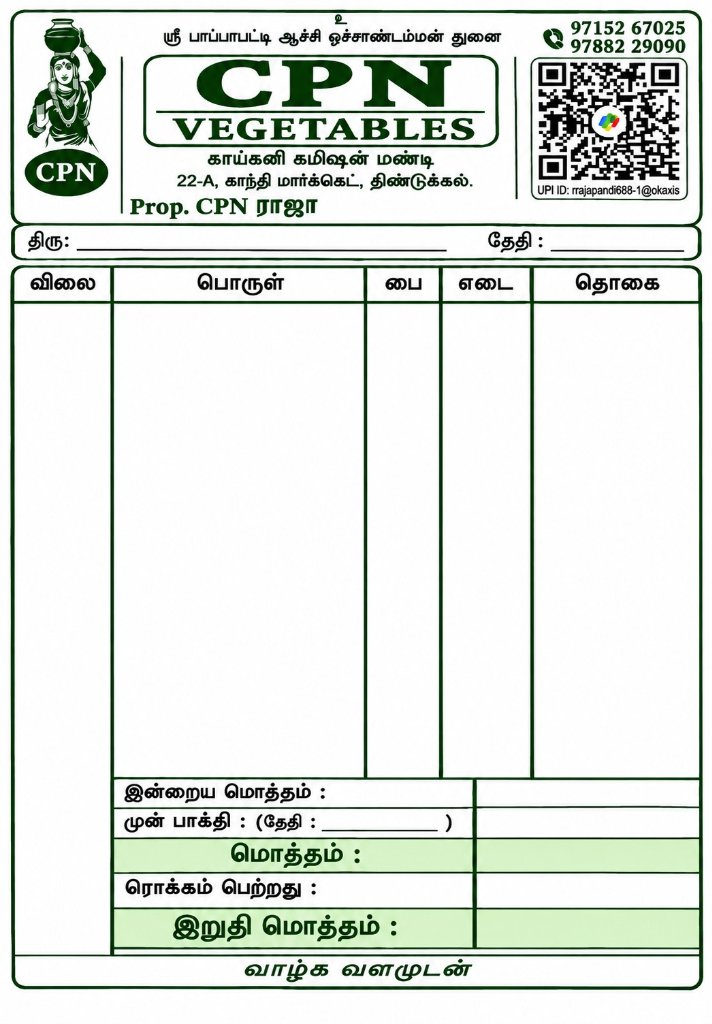
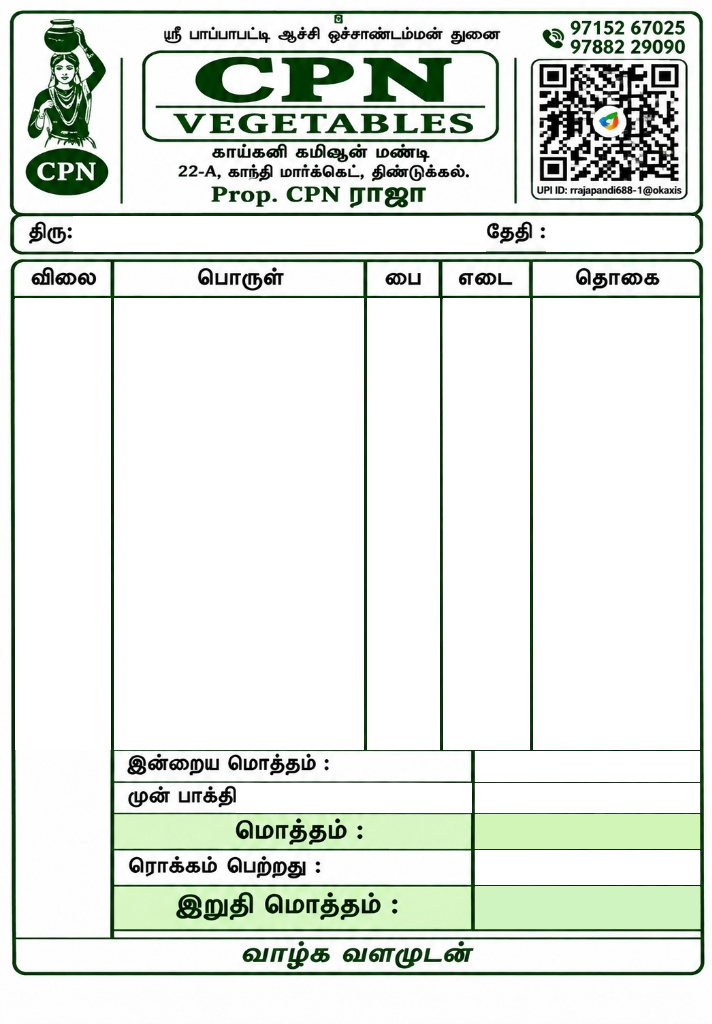
fix(print): align buyer name and update bill template to authoritative reference

Changed region(s): [[0.0, 0.0, 1.0, 0.9688]]

diff --git a/client/src/components/BillPrintTemplate.jsx b/client/src/components/BillPrintTemplate.jsx
@@ -31,21 +31,21 @@ const formatNumber = (num, decimals = 2) => {
   return parsed % 1 === 0 ? parsed.toString() : parsed.toFixed(decimals);
 };
 
-// Helper to get adaptive row layout parameters inside the 44.43% vegetable table area
+// Helper to get adaptive row layout parameters inside the vegetable table area
 const getAdaptiveOverlayLayout = (itemCount) => {
   if (itemCount <= 5) {
     return {
-      rowHeightPercent: 4.4,
-      fontSizeParticulars: 'text-[11px] leading-tight font-bold',
-      fontSizeData: 'text-[11px] font-bold',
+      rowHeightPercent: 4.5,
+      fontSizeParticulars: 'text-[11.5px] leading-tight font-bold',
+      fontSizeData: 'text-[11.5px] font-bold',
       lineHeight: 'leading-normal',
     };
   } else {
     // 6 to 10 items
     return {
-      rowHeightPercent: 4.3,
-      fontSizeParticulars: 'text-[10px] leading-tight font-bold',
-      fontSizeData: 'text-[10px] font-bold',
+      rowHeightPercent: 3.9,
+      fontSizeParticulars: 'text-[10.5px] leading-tight font-bold',
+      fontSizeData: 'text-[10.5px] font-bold',
       lineHeight: 'leading-normal',
     };
   }
@@ -167,7 +167,7 @@ export const BillPrintTemplate = ({ bill, settings, masterVegetables = [] }) => 
   }
 
   // Table body start and end Y coordinates as percentages of 1024px canvas
-  const TABLE_TOP_PERCENT = 30.10; // Y = 308px (immediately below table header line)
+  const TABLE_TOP_PERCENT = 29.50; // Y = 302px (immediately below table header line)
 
   return (
     <div id="printable-bill" style={{ margin: 0, padding: 0 }}>
@@ -221,41 +221,39 @@ export const BillPrintTemplate = ({ bill, settings, masterVegetables = [] }) => 
                 height: '100%',
               }}
             >
-              {/* 1. CUSTOMER NAME (on திரு: underline - X=78..476, Y=250) */}
+              {/* 1. CUSTOMER NAME (திரு: - X=84..480, Y=216..251) */}
               <div
-                className="absolute flex items-end font-black text-black font-tamil text-[13px] leading-none truncate pl-1 pr-2"
+                className="absolute flex items-center font-black text-black font-tamil text-[14px] leading-none truncate pl-1 pr-2"
                 style={{
-                  left: '11.0%',
-                  top: '22.0%',
-                  width: '56.0%',
-                  height: '2.41%',
-                  paddingBottom: '0.5px',
+                  left: '11.8%',
+                  top: '21.09%',
+                  width: '55.0%',
+                  height: '3.42%',
                   boxSizing: 'border-box',
                 }}
                 title={bill.customerName || bill.customer?.name}
               >
                 <span className="truncate">{bill.customerName || bill.customer?.name || ''}</span>
                 {bill.customerPhone && (
-                  <span className="font-mono-num font-bold text-gray-800 text-[10px] ml-1.5 flex-shrink-0">
+                  <span className="font-mono-num font-bold text-gray-800 text-[10.5px] ml-1.5 flex-shrink-0">
                     ({bill.customerPhone})
                   </span>
                 )}
                 {page.pageNumber > 1 && (
-                  <span className="text-[9px] font-bold text-[#034D28] ml-2 flex-shrink-0">
+                  <span className="text-[9.5px] font-bold text-[#034D28] ml-2 flex-shrink-0">
                     (பக்கம் {page.pageNumber})
                   </span>
                 )}
               </div>
 
-              {/* 2. DATE (on தேதி : underline - X=551..684, Y=250) */}
+              {/* 2. DATE (தேதி : - X=552..690, Y=216..251) */}
               <div
-                className="absolute flex items-end justify-center font-mono-num font-bold text-gray-950 text-[10.5px] leading-none"
+                className="absolute flex items-center justify-center font-mono-num font-bold text-gray-950 text-[12px] leading-none"
                 style={{
-                  left: '77.2%',
-                  top: '22.0%',
-                  width: '18.8%',
-                  height: '2.41%',
-                  paddingBottom: '0.5px',
+                  left: '77.5%',
+                  top: '21.09%',
+                  width: '19.0%',
+                  height: '3.42%',
                   boxSizing: 'border-box',
                 }}
               >
@@ -300,7 +298,7 @@ export const BillPrintTemplate = ({ bill, settings, masterVegetables = [] }) => 
 
                     {/* Col 2: பொருள் (Particulars - Tamil Name) - 15.73% to 51.26% */}
                     <div
-                      className={`flex items-center text-left pl-2 pr-1 font-tamil font-bold text-gray-950 truncate ${layout.fontSizeParticulars}`}
+                      className={`flex items-center text-left pl-2.5 pr-1 font-tamil font-bold text-gray-950 truncate ${layout.fontSizeParticulars}`}
                       style={{
                         position: 'absolute',
                         left: '15.73%',
@@ -311,39 +309,39 @@ export const BillPrintTemplate = ({ bill, settings, masterVegetables = [] }) => 
                       <span className="truncate">{getVegetableDisplayName(item)}</span>
                     </div>
 
-                    {/* Col 3: பை (Bag) - 51.26% to 61.80% */}
+                    {/* Col 3: பை (Bag) - 51.26% to 61.94% */}
                     <div
                       className={`flex items-center justify-center font-mono-num font-bold text-gray-950 ${layout.fontSizeData}`}
                       style={{
                         position: 'absolute',
                         left: '51.26%',
-                        width: '10.54%',
+                        width: '10.68%',
                         height: '100%',
                       }}
                     >
                       {item.bag > 0 ? item.bag : ''}
                     </div>
 
-                    {/* Col 4: எடை (Weight) - 61.80% to 74.72% */}
+                    {/* Col 4: எடை (Weight) - 61.94% to 74.58% */}
                     <div
                       className={`flex items-center justify-end pr-2 font-mono-num font-semibold text-gray-950 ${layout.fontSizeData}`}
                       style={{
                         position: 'absolute',
-                        left: '61.80%',
-                        width: '12.92%',
+                        left: '61.94%',
+                        width: '12.64%',
                         height: '100%',
                       }}
                     >
                       {item.weight > 0 ? formatNumber(item.weight) : ''}
                     </div>
 
-                    {/* Col 5: தொகை (Amount) - 74.72% to 98.31% */}
+                    {/* Col 5: தொகை (Amount) - 74.58% to 98.45% */}
                     <div
                       className={`flex items-center justify-end pr-3 font-mono-num font-black text-gray-950 ${layout.fontSizeData}`}
                       style={{
                         position: 'absolute',
-                        left: '74.72%',
-                        width: '23.59%',
+                        left: '74.58%',
+                        width: '23.87%',
                         height: '100%',
                       }}
                     >
@@ -356,53 +354,55 @@ export const BillPrintTemplate = ({ bill, settings, masterVegetables = [] }) => 
               {/* 4. SUMMARY SECTION AMOUNTS (mapped into the blank amount cells) */}
               {page.isFinalPage ? (
                 <>
-                  {/* Row 1: இன்றைய மொத்தம் (Today's Total) Amount - Y=778..808px (75.98%..78.91%) */}
+                  {/* Row 1: இன்றைய மொத்தம் (Today's Total) Amount - Y=750..782px (73.24%..76.37%) */}
                   <div
-                    className="absolute flex items-center justify-end pr-3 font-mono-num font-black text-black text-[10px]"
+                    className="absolute flex items-center justify-end pr-3 font-mono-num font-black text-black text-[12px]"
                     style={{
                       left: '66.57%',
-                      top: '75.98%',
-                      width: '31.74%',
-                      height: '2.93%',
+                      top: '73.24%',
+                      width: '31.88%',
+                      height: '3.13%',
                     }}
                   >
                     {formatCurrency(todayTotal)}
                   </div>
 
-                  {/* Row 2: முன் பாக்கி Date on underline - X=260..448px (36.52%..62.92%), Y=808..838px */}
-                  <div
-                    className="absolute flex items-center justify-center font-mono-num font-bold text-[#034D28] text-[8.5px]"
-                    style={{
-                      left: '36.52%',
-                      top: '78.91%',
-                      width: '26.40%',
-                      height: '2.93%',
-                    }}
-                  >
-                    {previousBalanceDateFormatted}
-                  </div>
+                  {/* Row 2: முன் பாக்கி Date - X=236..472px (33.15%..66.29%), Y=782..813px (76.37%..79.39%) */}
+                  {previousBalanceDateFormatted && (
+                    <div
+                      className="absolute flex items-center justify-start pl-2 font-mono-num font-bold text-gray-950 text-[10px]"
+                      style={{
+                        left: '33.15%',
+                        top: '76.37%',
+                        width: '33.42%',
+                        height: '3.03%',
+                      }}
+                    >
+                      (தேதி : {previousBalanceDateFormatted} )
+                    </div>
+                  )}
 
                   {/* Row 2: முன் பாக்கி (Previous Balance) Amount */}
                   <div
-                    className="absolute flex items-center justify-end pr-3 font-mono-num font-bold text-black text-[10px]"
+                    className="absolute flex items-center justify-end pr-3 font-mono-num font-bold text-black text-[12px]"
                     style={{
                       left: '66.57%',
-                      top: '78.91%',
-                      width: '31.74%',
-                      height: '2.93%',
+                      top: '76.37%',
+                      width: '31.88%',
+                      height: '3.03%',
                     }}
                   >
                     {formatCurrency(previousBalance)}
                   </div>
 
-                  {/* Row 3: மொத்தம் (Total) Amount - Y=838..872px (81.84%..85.16%) */}
+                  {/* Row 3: மொத்தம் (Total) Amount - Y=813..849px (79.39%..82.91%) */}
                   <div
-                    className="absolute flex items-center justify-end pr-3 font-mono-num font-black text-black text-[10.5px]"
+                    className="absolute flex items-center justify-end pr-3 font-mono-num font-black text-black text-[13px]"
                     style={{
                       left: '66.57%',
-                      top: '81.84%',
-                      width: '31.74%',
-                      height: '3.32%',
+                      top: '79.39%',
+                      width: '31.88%',
+                      height: '3.52%',
                     }}
                   >
                     {formatCurrency(total)}
@@ -411,39 +411,39 @@ export const BillPrintTemplate = ({ bill, settings, masterVegetables = [] }) => 
                   {/* Row 4: தள்ளுபடி (Discount) note next to ரொக்கம் பெற்றது if present */}
                   {discount > 0 && (
                     <div
-                      className="absolute flex items-center justify-end pr-1 font-mono-num font-bold text-amber-900 text-[7.5px] whitespace-nowrap"
+                      className="absolute flex items-center justify-end pr-1 font-mono-num font-bold text-amber-900 text-[8.5px] whitespace-nowrap"
                       style={{
-                        left: '42.0%',
-                        top: '85.16%',
-                        width: '24.0%',
+                        left: '34.0%',
+                        top: '82.91%',
+                        width: '32.0%',
                         height: '3.52%',
                       }}
                     >
-                      (தள்ளுபடி: {formatCurrency(discount)})
+                      (தள்ளுபடி: ₹{formatCurrency(discount)})
                     </div>
                   )}
 
-                  {/* Row 4: ரொக்கம் பெற்றது / வரவு (Cash Received) Amount - Y=872..908px (85.16%..88.67%) */}
+                  {/* Row 4: ரொக்கம் பெற்றது / வரவு (Cash Received) Amount - Y=849..885px (82.91%..86.43%) */}
                   <div
-                    className="absolute flex items-center justify-end pr-3 font-mono-num font-bold text-black text-[10px]"
+                    className="absolute flex items-center justify-end pr-3 font-mono-num font-bold text-black text-[12px]"
                     style={{
                       left: '66.57%',
-                      top: '85.16%',
-                      width: '31.74%',
+                      top: '82.91%',
+                      width: '31.88%',
                       height: '3.52%',
                     }}
                   >
-                    {varavu > 0 ? formatCurrency(varavu) : '0.00'}
+                    {formatCurrency(varavu)}
                   </div>
 
-                  {/* Row 5: இறுதி மொத்தம் / மொத்த பாக்கி (Closing Balance) Amount - Y=908..948px (88.67%..92.58%) */}
+                  {/* Row 5: இறுதி மொத்தம் / மொத்த பாக்கி (Closing Balance) Amount - Y=885..929px (86.43%..90.72%) */}
                   <div
-                    className="absolute flex items-center justify-end pr-3 font-mono-num font-black text-black text-[11px]"
+                    className="absolute flex items-center justify-end pr-3 font-mono-num font-black text-black text-[14px]"
                     style={{
                       left: '66.57%',
-                      top: '88.67%',
-                      width: '31.74%',
-                      height: '3.91%',
+                      top: '86.43%',
+                      width: '31.88%',
+                      height: '4.30%',
                     }}
                   >
                     {formatCurrency(closingBalance)}
@@ -455,9 +455,9 @@ export const BillPrintTemplate = ({ bill, settings, masterVegetables = [] }) => 
                   className="absolute"
                   style={{
                     left: '1.69%',
-                    top: '75.98%',
+                    top: '73.24%',
                     width: '96.62%',
-                    height: '16.60%',
+                    height: '17.48%',
                     backgroundColor: '#ffffff',
                     zIndex: 10,
                   }}
@@ -467,7 +467,7 @@ export const BillPrintTemplate = ({ bill, settings, masterVegetables = [] }) => 
                     style={{ boxSizing: 'border-box' }}
                   >
                     <div className="flex items-center justify-between w-full">
-                      <div className="flex items-center gap-1.5 font-tamil font-black text-[#034D28] text-[10.5px]">
+                      <div className="flex items-center gap-1.5 font-tamil font-black text-[#034D28] text-[11px]">
                         <span>தொடர்ச்சி அடுத்த பக்கம் {page.pageNumber + 1}-ல் பார்க்கவும்</span>
                         <span className="text-[12px] font-bold">&gt;&gt;</span>
                       </div>
@@ -475,7 +475,7 @@ export const BillPrintTemplate = ({ bill, settings, masterVegetables = [] }) => 
                         பக்கம் {page.pageNumber} / {page.totalPages}
                       </div>
                     </div>
-                    <div className="text-[8px] font-tamil text-gray-700 mt-1 text-center w-full">
+                    <div className="text-[8.5px] font-tamil text-gray-700 mt-1 text-center w-full">
                       (மொத்த கணக்கு விவரம் இறுதி பக்கம் {page.totalPages}-ல் காண்க)
                     </div>
                   </div>
@@ -487,7 +487,7 @@ export const BillPrintTemplate = ({ bill, settings, masterVegetables = [] }) => 
                 <div
                   className="absolute flex items-center justify-end font-mono-num font-bold text-[#034D28] text-[8.5px]"
                   style={{
-                    top: '94.2%',
+                    top: '92.5%',
                     right: '3.5%',
                     height: '2.4%',
                   }}
